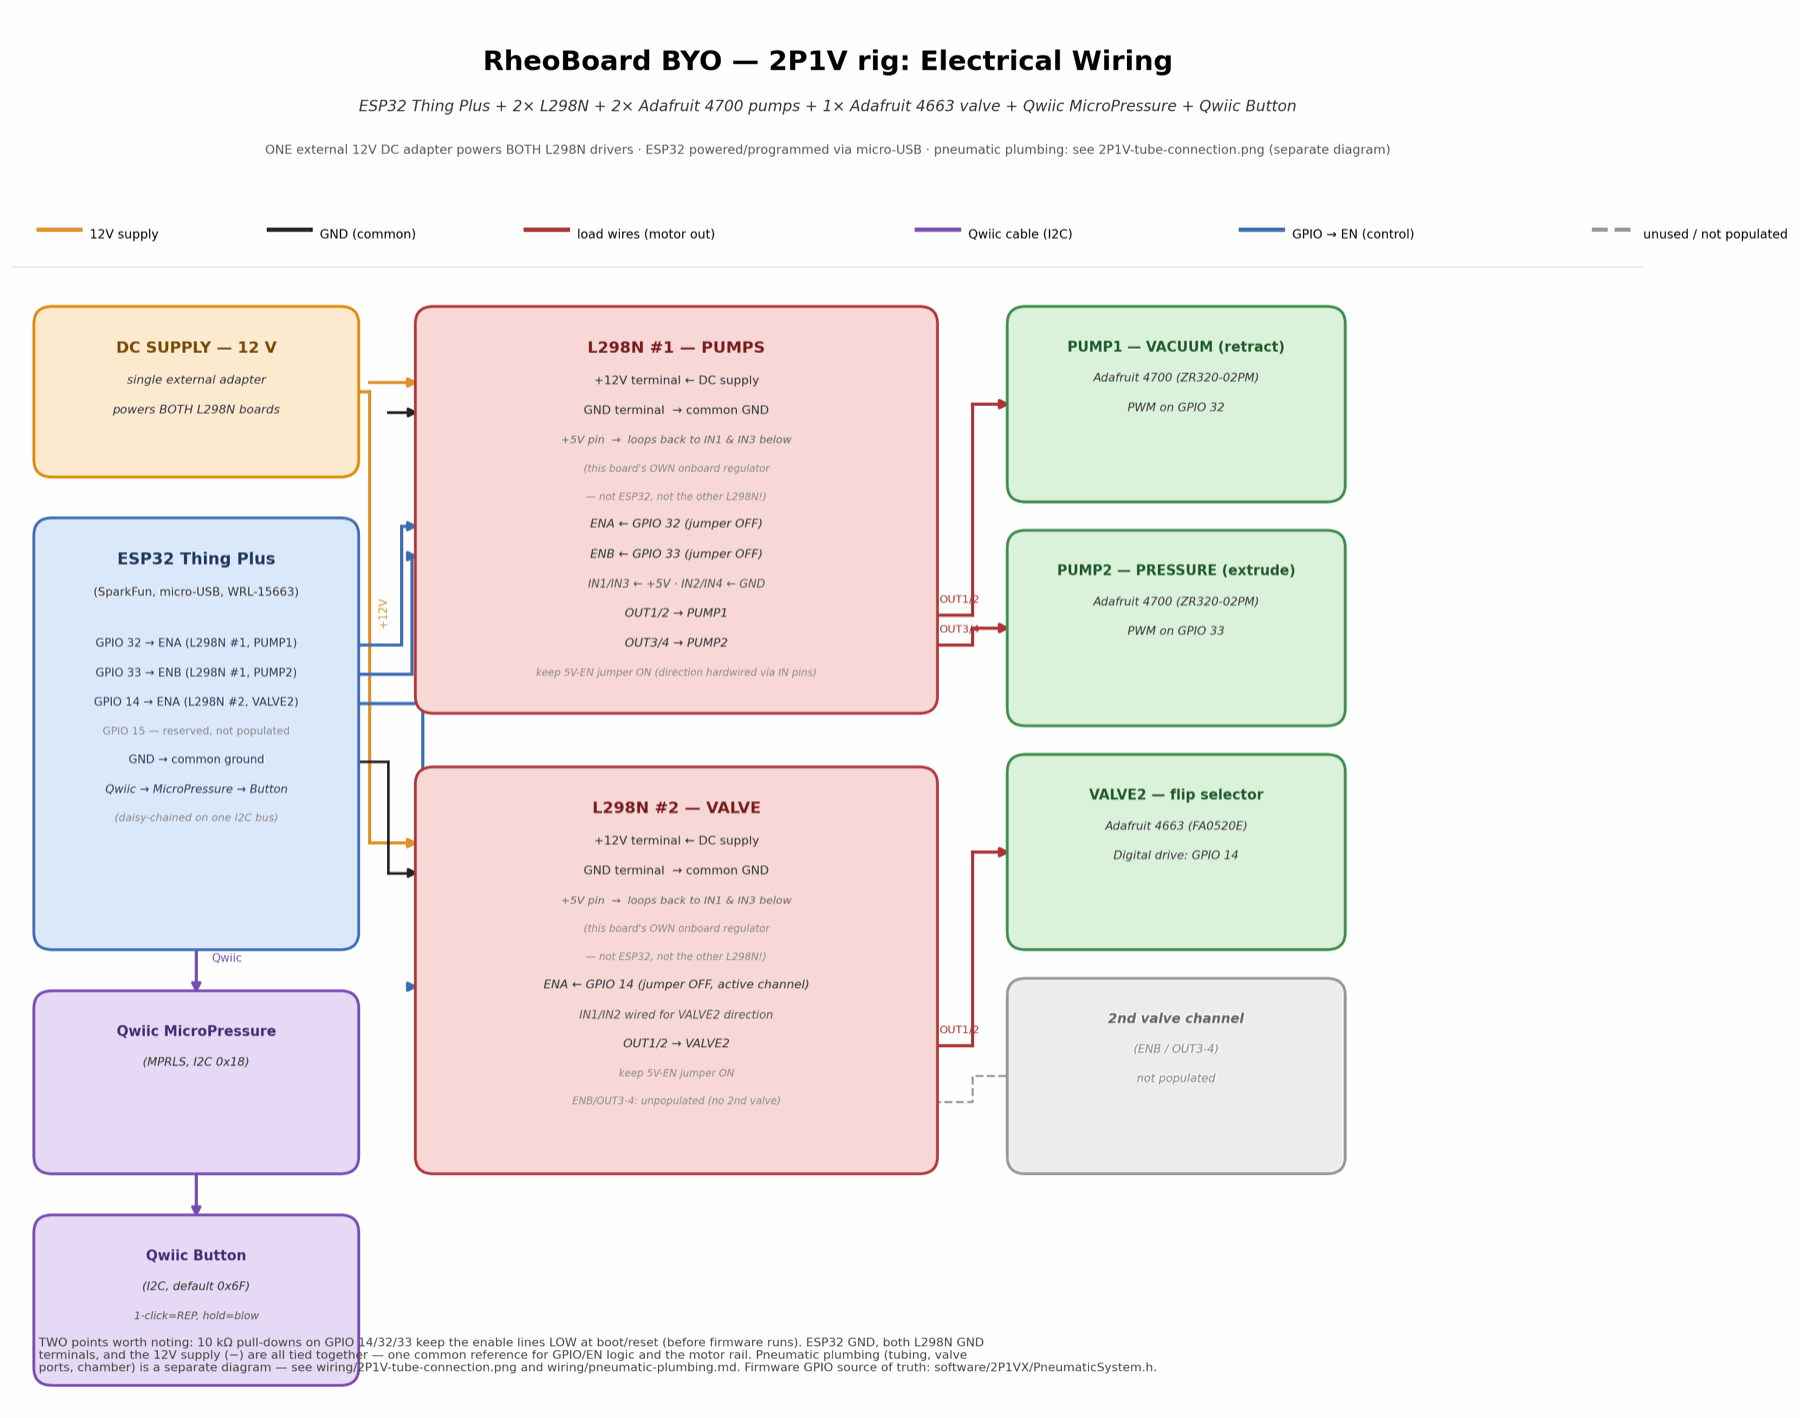
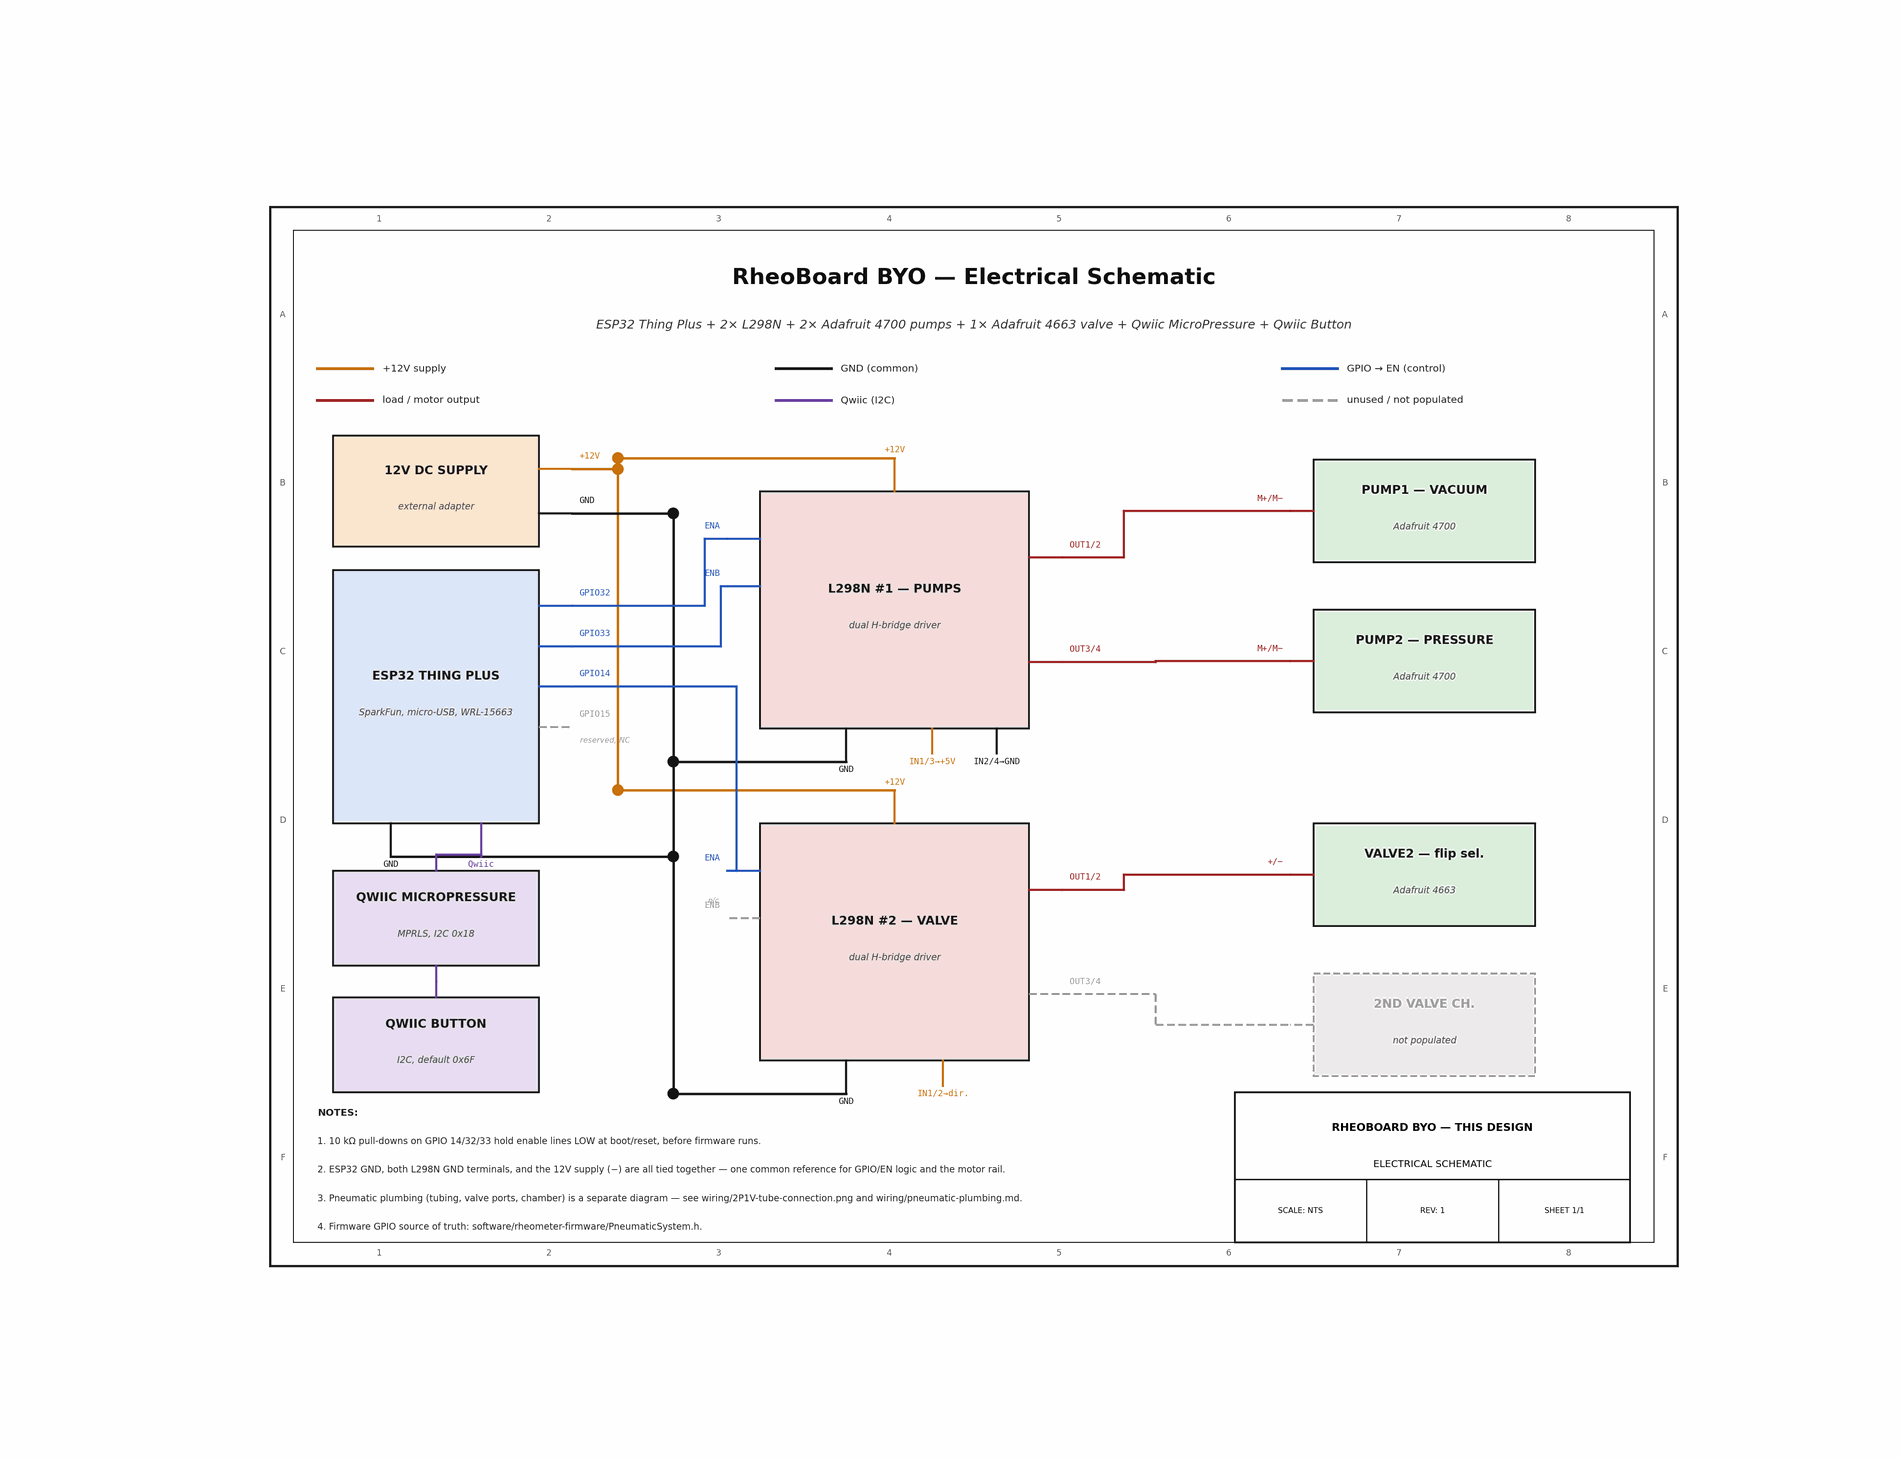
Revise electrical wiring diagram and update documentation for clarity
- Regenerated the `2P1V-wiring-diagram.png` to a schematic-capture style, enhancing legibility and organization per user request.
- Rebuilt the generator script for the diagram, incorporating a bordered sheet frame, grid references, and IC-style components with labeled pin stubs.
- Updated the "Conventions" section in `wiring/README.md` to reflect the new schematic-style wiring approach while maintaining pictographic style for pneumatic plumbing.
- Dropped "2P1V" from the diagram title to align with recent de-branding efforts, while keeping the filename unchanged for consistency.
- Reduced the image file size from 92 KB to 49 KB, improving performance without sacrificing detail.
- Ran `scripts/check-docs.sh` to ensure all documentation checks pass.

These changes aim to improve the visual representation and usability of the wiring documentation.

diff --git a/BuildYourOwn/PROGRESS.md b/BuildYourOwn/PROGRESS.md
@@ -8,6 +8,49 @@ Newest entries at the top. One entry per session/sitting.
 
 ---
 
+## 2026-07-08 (17)
+
+Regenerated `wiring/2P1V-wiring-diagram.png` in a real schematic-capture style, per user
+request ("make it more organiz[ed], look like real schematic") — previous version was a
+labeled block diagram (colored boxes with prose-y text inside); this one now reads like
+something out of KiCad/Eagle.
+
+- Rebuilt the generator script (Matplotlib) from scratch with: a bordered sheet frame + column/
+  row reference grid (numbers/letters along the edges, like a fab drawing), components drawn as
+  IC-style rectangles with individually labeled pin stubs (`ENA`, `GPIO32`, `OUT1/2`, etc.)
+  instead of paragraph text, strictly orthogonal (Manhattan) wire routing, filled junction dots
+  at every real electrical tee (e.g. the +12V and GND buses splitting to both L298N boards), and
+  a KiCad-style title block (title / scale / rev / sheet) in the bottom-right corner.
+- Net-color legend kept from the old version (+12V orange, GND black, GPIO→EN blue, motor/valve
+  load dark red, Qwiic/I2C purple, unused/reserved dashed gray) since it reads well and matches
+  the pneumatic diagram's palette.
+- The two internal L298N jumpers (IN1/IN3→+5V, IN2/IN4→GND — hardwired direction-setting wires
+  the builder makes on the module's own terminal block) are drawn as short local pin stubs at the
+  bottom of each driver box rather than routed anywhere, since they're not really "cross-board"
+  wires. Positioned at pin fractions >0.5 specifically so they fall outside the GND bus's
+  horizontal span and don't visually cross it.
+- Content is unchanged from the previous version (nets, GPIO map, unused/reserved items) — this
+  was a pure re-draw for legibility/style, cross-checked against
+  `software/rheometer-firmware/PneumaticSystem.h` again while at it.
+- Updated `wiring/README.md`'s "Conventions" section: it previously said to prefer pictographic
+  diagrams over abstract schematics everywhere, which the new electrical diagram deliberately
+  contradicts. Now states electrical wiring is schematic-style (precision) while pneumatic
+  plumbing stays pictographic (physical tube routing, not electrical nets).
+- Also dropped "2P1V" from the on-image title text (now "RheoBoard BYO — Electrical Schematic")
+  to match the broader de-branding done this session — left the **filename**
+  (`2P1V-wiring-diagram.png`) alone since renaming files is a separate, larger decision (see
+  entry 14 and the tech-debt note it left).
+- Rendered at 1900 px wide, quantized PNG (`FASTOCTREE`, 256 colors) → **49 KB** (previous
+  version was 92 KB, so this is smaller *and* denser with information).
+- Ran `scripts/check-docs.sh` — all checks pass.
+
+**Next:** no further action needed unless the user wants the pneumatic tube diagram
+(`2P1V-tube-connection.png`) restyled to match, or wants the filename itself de-branded (would
+need to update every reference across `README.md`, `BOM.md`, `wiring/README.md`,
+`tutorial/steps/03-wire-electronics/`).
+
+---
+
 ## 2026-07-08 (16)
 
 Resized/compressed every other image in the repo (user asked for "all other pictures as well"

diff --git a/BuildYourOwn/wiring/README.md b/BuildYourOwn/wiring/README.md
@@ -42,7 +42,9 @@ every part in this diagram (ESP32 Thing Plus, MPRLS sensor, L298N, Adafruit 4700
 
 ## Conventions
 
-- Prefer pictographic diagrams (like the images above) over abstract schematics for builders.
+- Electrical wiring is drawn as a labeled schematic (component blocks with named pins,
+  orthogonal wire routing, junction dots, net-color legend) for precision. Pneumatic plumbing
+  stays pictographic/photo-style since it's about physical tube routing, not electrical nets.
 - When updating wiring, update the image **and** the GPIO defines in
   `software/rheometer-firmware/PneumaticSystem.h`
   together — keep them in sync.
